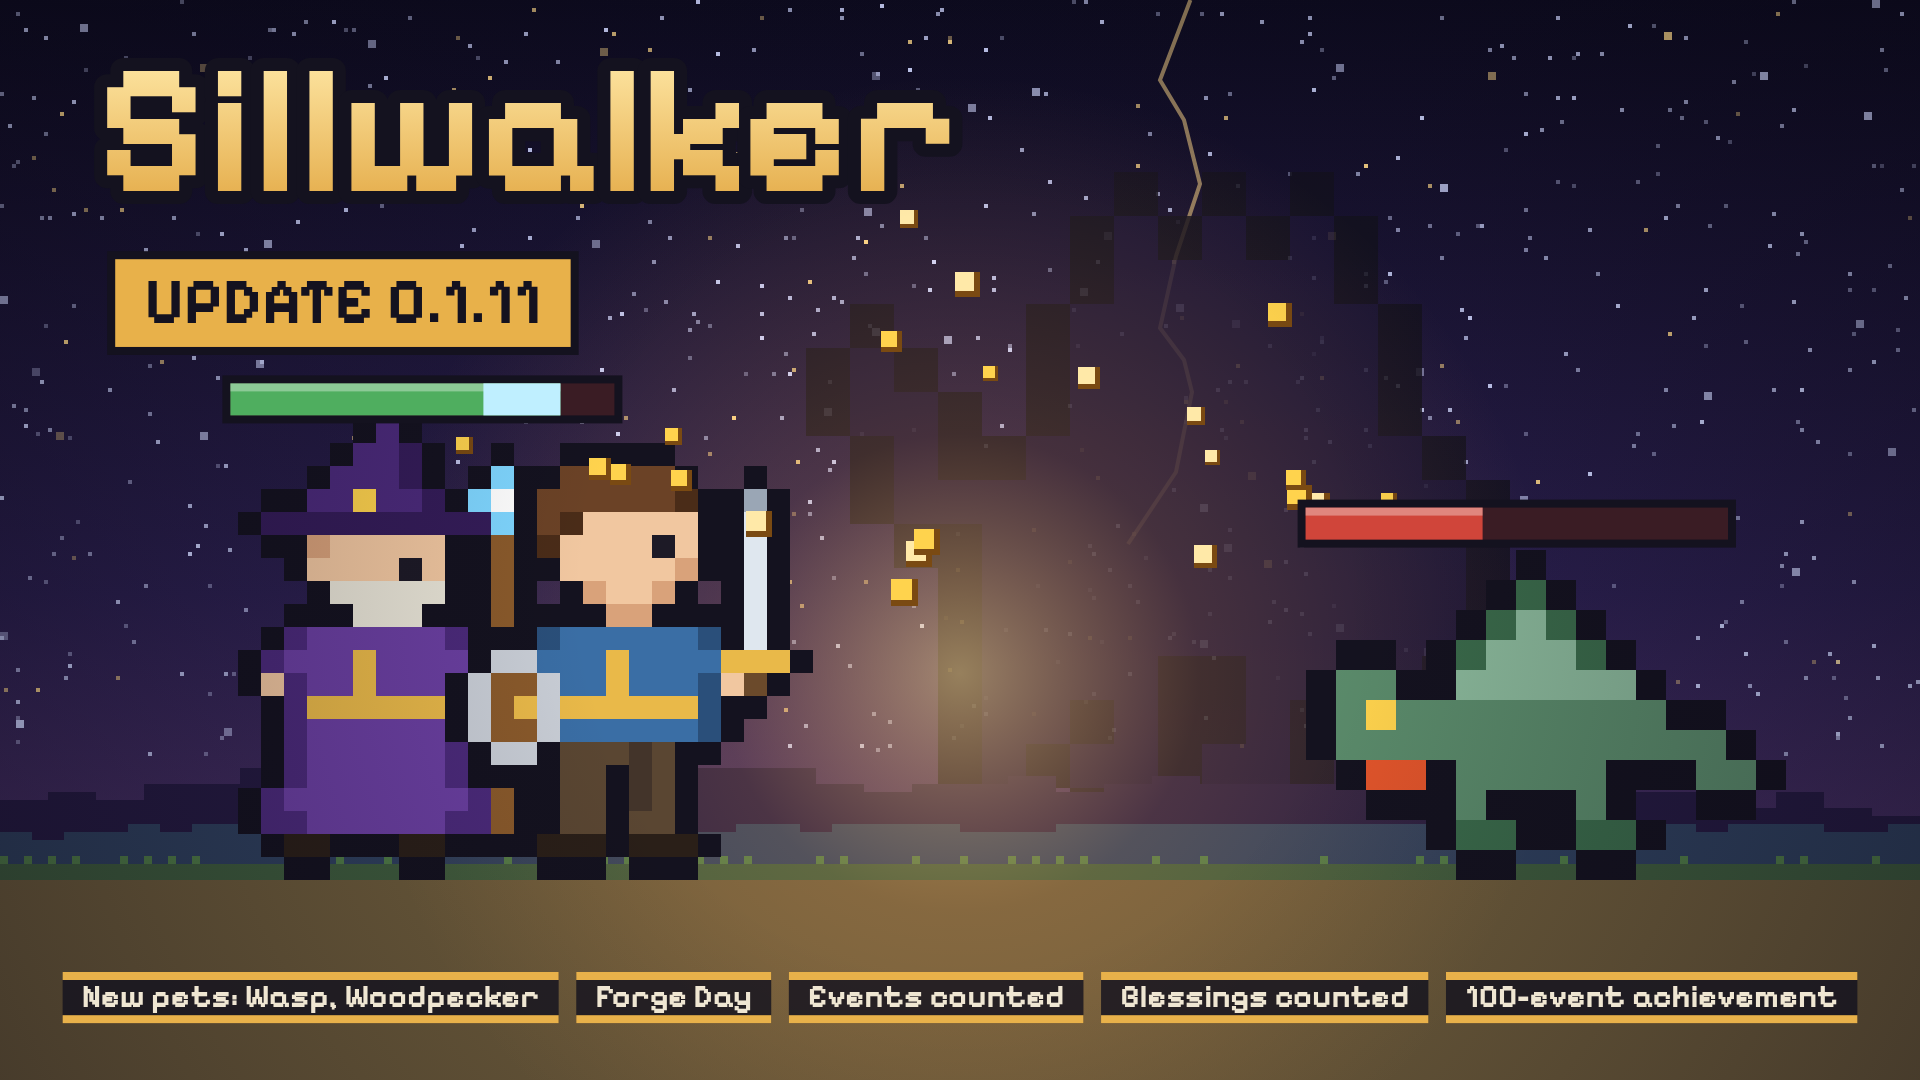
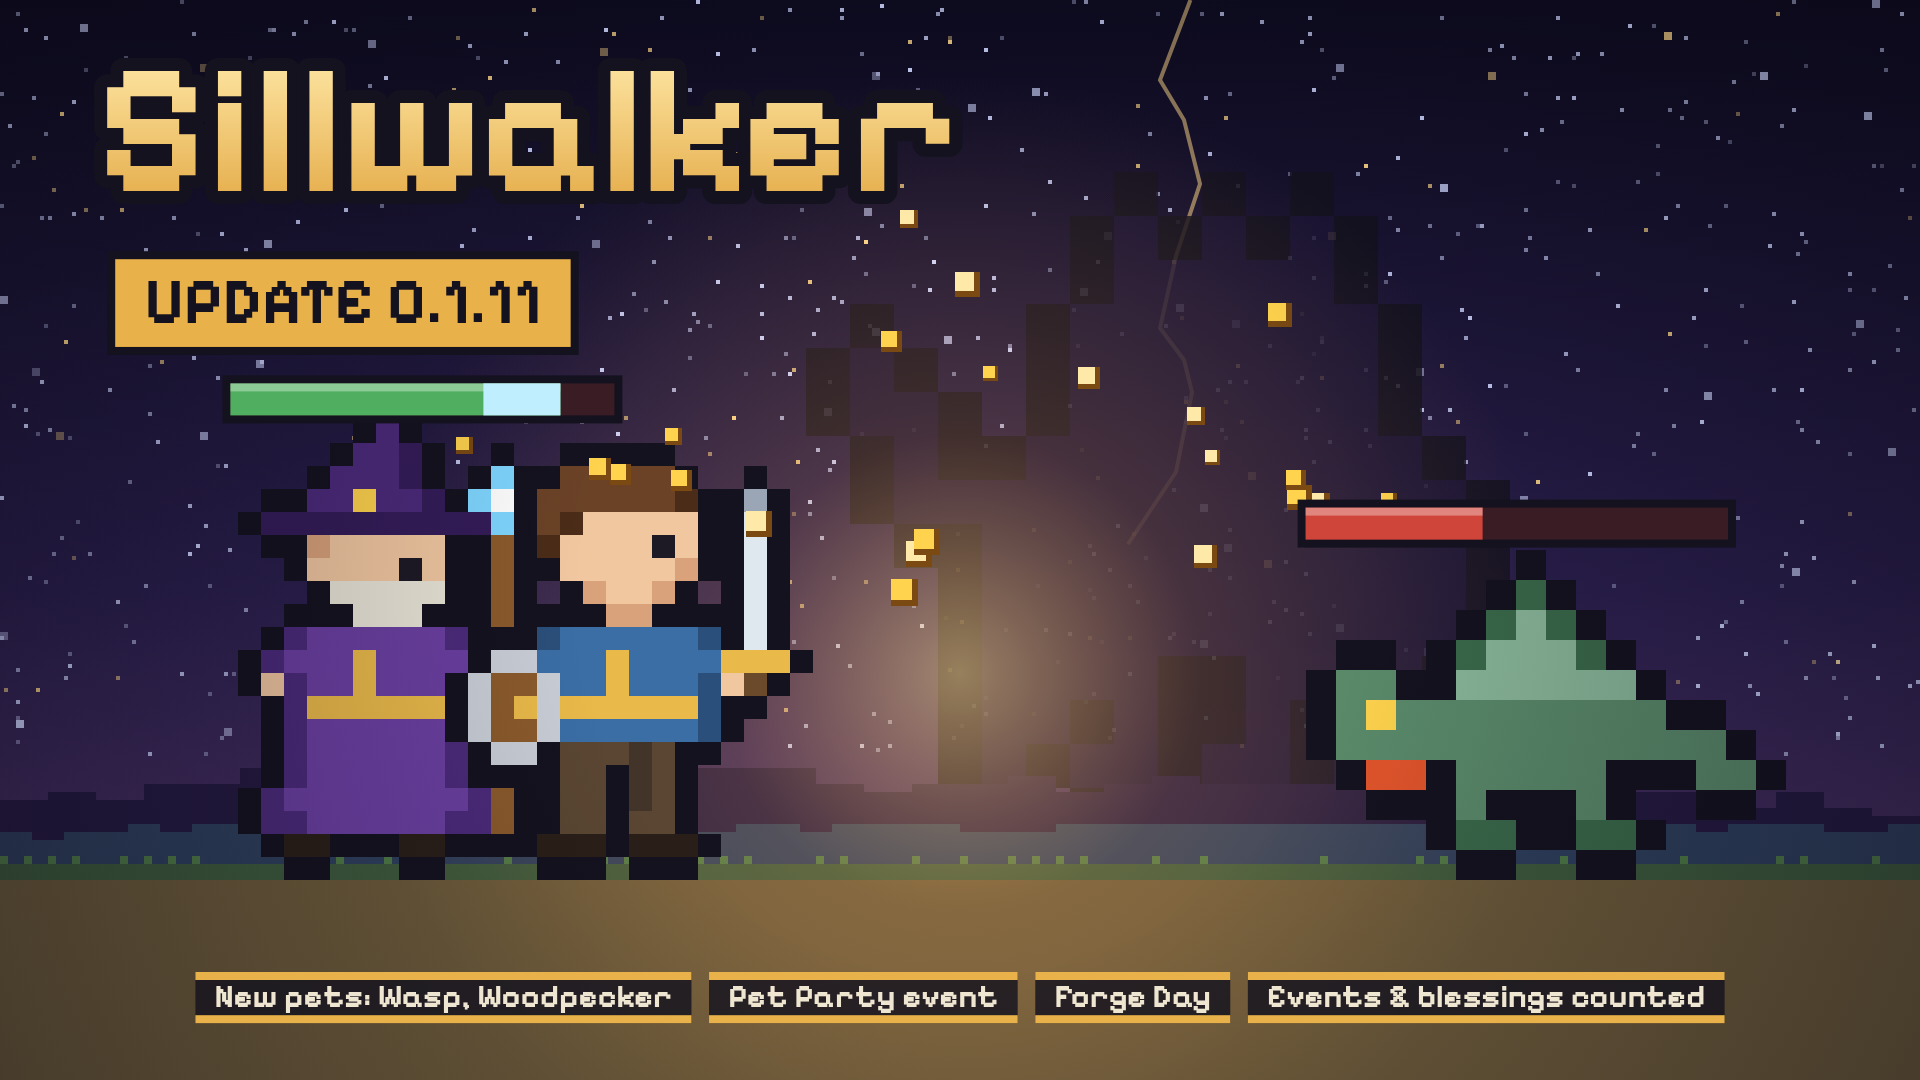
Quoi de neuf (it. 3319) : édition 195, couverture et accroches 0.1.11
Claude-Session: https://claude.ai/code/session_01BoV1hVHohF69q4PDskLo8j

Changed region(s): [[0.0312, 0.8861, 0.9688, 0.9472]]

diff --git a/src/renderer/game/news.js b/src/renderer/game/news.js
@@ -943,7 +943,10 @@ const EDITION_193 = [
 const EDITION_194 = [
   "Nouveau familier, le Pivert : chaque coup d’affilée fait un peu plus mal.",
 ];
-export const NEWS_EDITIONS = [EDITION_1, EDITION_2, EDITION_3, EDITION_4, EDITION_5, EDITION_6, EDITION_7, EDITION_8, EDITION_9, EDITION_10, EDITION_11, EDITION_12, EDITION_13, EDITION_14, EDITION_15, EDITION_16, EDITION_17, EDITION_18, EDITION_19, EDITION_20, EDITION_21, EDITION_22, EDITION_23, EDITION_24, EDITION_25, EDITION_26, EDITION_27, EDITION_28, EDITION_29, EDITION_30, EDITION_31, EDITION_32, EDITION_33, EDITION_34, EDITION_35, EDITION_36, EDITION_37, EDITION_38, EDITION_39, EDITION_40, EDITION_41, EDITION_42, EDITION_43, EDITION_44, EDITION_45, EDITION_46, EDITION_47, EDITION_48, EDITION_49, EDITION_50, EDITION_51, EDITION_52, EDITION_53, EDITION_54, EDITION_55, EDITION_56, EDITION_57, EDITION_58, EDITION_59, EDITION_60, EDITION_61, EDITION_62, EDITION_63, EDITION_64, EDITION_65, EDITION_66, EDITION_67, EDITION_68, EDITION_69, EDITION_70, EDITION_71, EDITION_72, EDITION_73, EDITION_74, EDITION_75, EDITION_76, EDITION_77, EDITION_78, EDITION_79, EDITION_80, EDITION_81, EDITION_82, EDITION_83, EDITION_84, EDITION_85, EDITION_86, EDITION_87, EDITION_88, EDITION_89, EDITION_90, EDITION_91, EDITION_92, EDITION_93, EDITION_94, EDITION_95, EDITION_96, EDITION_97, EDITION_98, EDITION_99, EDITION_100, EDITION_101, EDITION_102, EDITION_103, EDITION_104, EDITION_105, EDITION_106, EDITION_107, EDITION_108, EDITION_109, EDITION_110, EDITION_111, EDITION_112, EDITION_113, EDITION_114, EDITION_115, EDITION_116, EDITION_117, EDITION_118, EDITION_119, EDITION_120, EDITION_121, EDITION_122, EDITION_123, EDITION_124, EDITION_125, EDITION_126, EDITION_127, EDITION_128, EDITION_129, EDITION_130, EDITION_131, EDITION_132, EDITION_133, EDITION_134, EDITION_135, EDITION_136, EDITION_137, EDITION_138, EDITION_139, EDITION_140, EDITION_141, EDITION_142, EDITION_143, EDITION_144, EDITION_145, EDITION_146, EDITION_147, EDITION_148, EDITION_149, EDITION_150, EDITION_151, EDITION_152, EDITION_153, EDITION_154, EDITION_155, EDITION_156, EDITION_157, EDITION_158, EDITION_159, EDITION_160, EDITION_161, EDITION_162, EDITION_163, EDITION_164, EDITION_165, EDITION_166, EDITION_167, EDITION_168, EDITION_169, EDITION_170, EDITION_171, EDITION_172, EDITION_173, EDITION_174, EDITION_175, EDITION_176, EDITION_177, EDITION_178, EDITION_179, EDITION_180, EDITION_181, EDITION_182, EDITION_183, EDITION_184, EDITION_185, EDITION_186, EDITION_187, EDITION_188, EDITION_189, EDITION_190, EDITION_191, EDITION_192, EDITION_193, EDITION_194];
+const EDITION_195 = [
+  "Nouvel événement rare, la « Fête des familiers » : pendant 30 secondes, ton familier gagne 10 fois plus d’expérience.",
+];
+export const NEWS_EDITIONS = [EDITION_1, EDITION_2, EDITION_3, EDITION_4, EDITION_5, EDITION_6, EDITION_7, EDITION_8, EDITION_9, EDITION_10, EDITION_11, EDITION_12, EDITION_13, EDITION_14, EDITION_15, EDITION_16, EDITION_17, EDITION_18, EDITION_19, EDITION_20, EDITION_21, EDITION_22, EDITION_23, EDITION_24, EDITION_25, EDITION_26, EDITION_27, EDITION_28, EDITION_29, EDITION_30, EDITION_31, EDITION_32, EDITION_33, EDITION_34, EDITION_35, EDITION_36, EDITION_37, EDITION_38, EDITION_39, EDITION_40, EDITION_41, EDITION_42, EDITION_43, EDITION_44, EDITION_45, EDITION_46, EDITION_47, EDITION_48, EDITION_49, EDITION_50, EDITION_51, EDITION_52, EDITION_53, EDITION_54, EDITION_55, EDITION_56, EDITION_57, EDITION_58, EDITION_59, EDITION_60, EDITION_61, EDITION_62, EDITION_63, EDITION_64, EDITION_65, EDITION_66, EDITION_67, EDITION_68, EDITION_69, EDITION_70, EDITION_71, EDITION_72, EDITION_73, EDITION_74, EDITION_75, EDITION_76, EDITION_77, EDITION_78, EDITION_79, EDITION_80, EDITION_81, EDITION_82, EDITION_83, EDITION_84, EDITION_85, EDITION_86, EDITION_87, EDITION_88, EDITION_89, EDITION_90, EDITION_91, EDITION_92, EDITION_93, EDITION_94, EDITION_95, EDITION_96, EDITION_97, EDITION_98, EDITION_99, EDITION_100, EDITION_101, EDITION_102, EDITION_103, EDITION_104, EDITION_105, EDITION_106, EDITION_107, EDITION_108, EDITION_109, EDITION_110, EDITION_111, EDITION_112, EDITION_113, EDITION_114, EDITION_115, EDITION_116, EDITION_117, EDITION_118, EDITION_119, EDITION_120, EDITION_121, EDITION_122, EDITION_123, EDITION_124, EDITION_125, EDITION_126, EDITION_127, EDITION_128, EDITION_129, EDITION_130, EDITION_131, EDITION_132, EDITION_133, EDITION_134, EDITION_135, EDITION_136, EDITION_137, EDITION_138, EDITION_139, EDITION_140, EDITION_141, EDITION_142, EDITION_143, EDITION_144, EDITION_145, EDITION_146, EDITION_147, EDITION_148, EDITION_149, EDITION_150, EDITION_151, EDITION_152, EDITION_153, EDITION_154, EDITION_155, EDITION_156, EDITION_157, EDITION_158, EDITION_159, EDITION_160, EDITION_161, EDITION_162, EDITION_163, EDITION_164, EDITION_165, EDITION_166, EDITION_167, EDITION_168, EDITION_169, EDITION_170, EDITION_171, EDITION_172, EDITION_173, EDITION_174, EDITION_175, EDITION_176, EDITION_177, EDITION_178, EDITION_179, EDITION_180, EDITION_181, EDITION_182, EDITION_183, EDITION_184, EDITION_185, EDITION_186, EDITION_187, EDITION_188, EDITION_189, EDITION_190, EDITION_191, EDITION_192, EDITION_193, EDITION_194, EDITION_195];
 export const NEWS_ID = NEWS_EDITIONS.length;
 /** Nouveautés des éditions après `seen` (0 : toutes), la plus récente d'abord. */
 export const newsItems = (seen = 0) => NEWS_EDITIONS.slice(Math.max(0, seen)).reverse().flat();

diff --git a/scripts/steam-capsules/make.js b/scripts/steam-capsules/make.js
@@ -20,7 +20,7 @@ const SIZES = [
   ["update-0.1.8", 1920, 1080, "update", { ver: "0.1.8", tags: "Fairer champions|Richer return|Safe full bag|One-click buys|Clear big numbers|Royal Favor event" }], // (it. 3193)
   ["update-0.1.9", 1920, 1080, "update", { ver: "0.1.9", tags: "Star Day|Relentless elite|Weasel & Hummingbird|Shooting-star quests|Clearer mini mode" }], // (it. 3237)
   ["update-0.1.10", 1920, 1080, "update", { ver: "0.1.10", tags: "Zeal Day|Champions’ Challenge|The Shrike pet|Friendlier mini mode|Clearer translations" }], // (it. 3260, 3273)
-  ["update-0.1.11", 1920, 1080, "update", { ver: "0.1.11", tags: "New pets: Wasp, Woodpecker|Forge Day|Events counted|Blessings counted|100-event achievement" }], // (it. 3299, 3302, 3312)
+  ["update-0.1.11", 1920, 1080, "update", { ver: "0.1.11", tags: "New pets: Wasp, Woodpecker|Pet Party event|Forge Day|Events & blessings counted" }], // (it. 3299, 3302, 3312, 3319)
 ].filter(([name]) => !process.env.ONLY || name === process.env.ONLY); // ONLY=<nom> : une seule image
 app.whenReady().then(async () => {
   fs.mkdirSync(OUT, { recursive: true });

diff --git a/src/renderer/i18n/keys.js b/src/renderer/i18n/keys.js
@@ -3551,5 +3551,6 @@ export const KEYS = [
   "Nouveau familier, le Pivert : chaque coup d’affilée fait un peu plus mal.",
   "Fête des familiers",
   "Ton familier gagne 10 fois plus d’expérience !",
-  "C’est ta fête, mon petit compagnon !"
+  "C’est ta fête, mon petit compagnon !",
+  "Nouvel événement rare, la « Fête des familiers » : pendant 30 secondes, ton familier gagne 10 fois plus d’expérience."
 ];

diff --git a/src/renderer/i18n/lang/ru.js b/src/renderer/i18n/lang/ru.js
@@ -2422,4 +2422,5 @@ export default {
   3547: "Праздник питомцев",
   3548: "Твой питомец получает в 10 раз больше опыта!",
   3549: "Это твой праздник, малыш!",
+  3550: "Новое редкое событие — «Праздник питомцев»: 30 секунд твой питомец получает в 10 раз больше опыта.",
 };

diff --git a/src/renderer/i18n/lang/pl.js b/src/renderer/i18n/lang/pl.js
@@ -2422,4 +2422,5 @@ export default {
   3547: "Święto chowańców",
   3548: "Twój chowaniec zdobywa 10 razy więcej doświadczenia!",
   3549: "To twoje święto, mały towarzyszu!",
+  3550: "Nowe rzadkie wydarzenie, „Święto chowańców”: przez 30 sekund twój chowaniec zdobywa 10 razy więcej doświadczenia.",
 };

diff --git a/src/renderer/i18n/lang/es.js b/src/renderer/i18n/lang/es.js
@@ -2422,4 +2422,5 @@ export default {
   3547: "Fiesta de las mascotas",
   3548: "¡Tu mascota gana 10 veces más experiencia!",
   3549: "¡Es tu fiesta, pequeño compañero!",
+  3550: "Nuevo evento raro, la «Fiesta de las mascotas»: durante 30 segundos, tu mascota gana 10 veces más experiencia.",
 };

diff --git a/src/renderer/i18n/lang/ja.js b/src/renderer/i18n/lang/ja.js
@@ -2422,4 +2422,5 @@ export default {
   3547: "ペットの祭り",
   3548: "ペットが得る経験値が 10 倍に！",
   3549: "今日は君のお祭りだよ、相棒！",
+  3550: "新しいレアイベント「ペットの祭り」：30 秒間、ペットが得る経験値が 10 倍に。",
 };

diff --git a/src/renderer/i18n/lang/pt.js b/src/renderer/i18n/lang/pt.js
@@ -2422,4 +2422,5 @@ export default {
   3547: "Festa dos mascotes",
   3548: "Seu mascote ganha 10 vezes mais experiência!",
   3549: "É a sua festa, pequeno companheiro!",
+  3550: "Novo evento raro, a “Festa dos mascotes”: por 30 segundos, seu mascote ganha 10 vezes mais experiência.",
 };

diff --git a/src/renderer/i18n/lang/de.js b/src/renderer/i18n/lang/de.js
@@ -2422,4 +2422,5 @@ export default {
   3547: "Haustierfest",
   3548: "Dein Haustier erhält 10-mal mehr Erfahrung!",
   3549: "Heute ist dein Fest, kleiner Freund!",
+  3550: "Neues seltenes Ereignis, das „Haustierfest“: 30 Sekunden lang erhält dein Haustier 10-mal mehr Erfahrung.",
 };

diff --git a/src/renderer/i18n/lang/ko.js b/src/renderer/i18n/lang/ko.js
@@ -2422,4 +2422,5 @@ export default {
   3547: "펫 축제",
   3548: "펫이 경험치를 10배 더 얻습니다!",
   3549: "오늘은 네 축제야, 꼬마 친구!",
+  3550: "새 희귀 이벤트 「펫 축제」: 30초 동안 펫이 경험치를 10배 더 얻습니다.",
 };

diff --git a/src/renderer/i18n/lang/en.js b/src/renderer/i18n/lang/en.js
@@ -2422,4 +2422,5 @@ export default {
   3547: "Pet Party",
   3548: "Your pet gains 10 times more experience!",
   3549: "It’s your party, little buddy!",
+  3550: "New rare event, “Pet Party”: for 30 seconds, your pet gains 10 times more experience.",
 };

diff --git a/src/renderer/i18n/lang/zh.js b/src/renderer/i18n/lang/zh.js
@@ -2422,4 +2422,5 @@ export default {
   3547: "宠物庆典",
   3548: "你的宠物获得 10 倍经验！",
   3549: "今天是你的节日，小伙伴！",
+  3550: "新的稀有事件「宠物庆典」：30 秒内，你的宠物获得 10 倍经验。",
 };
